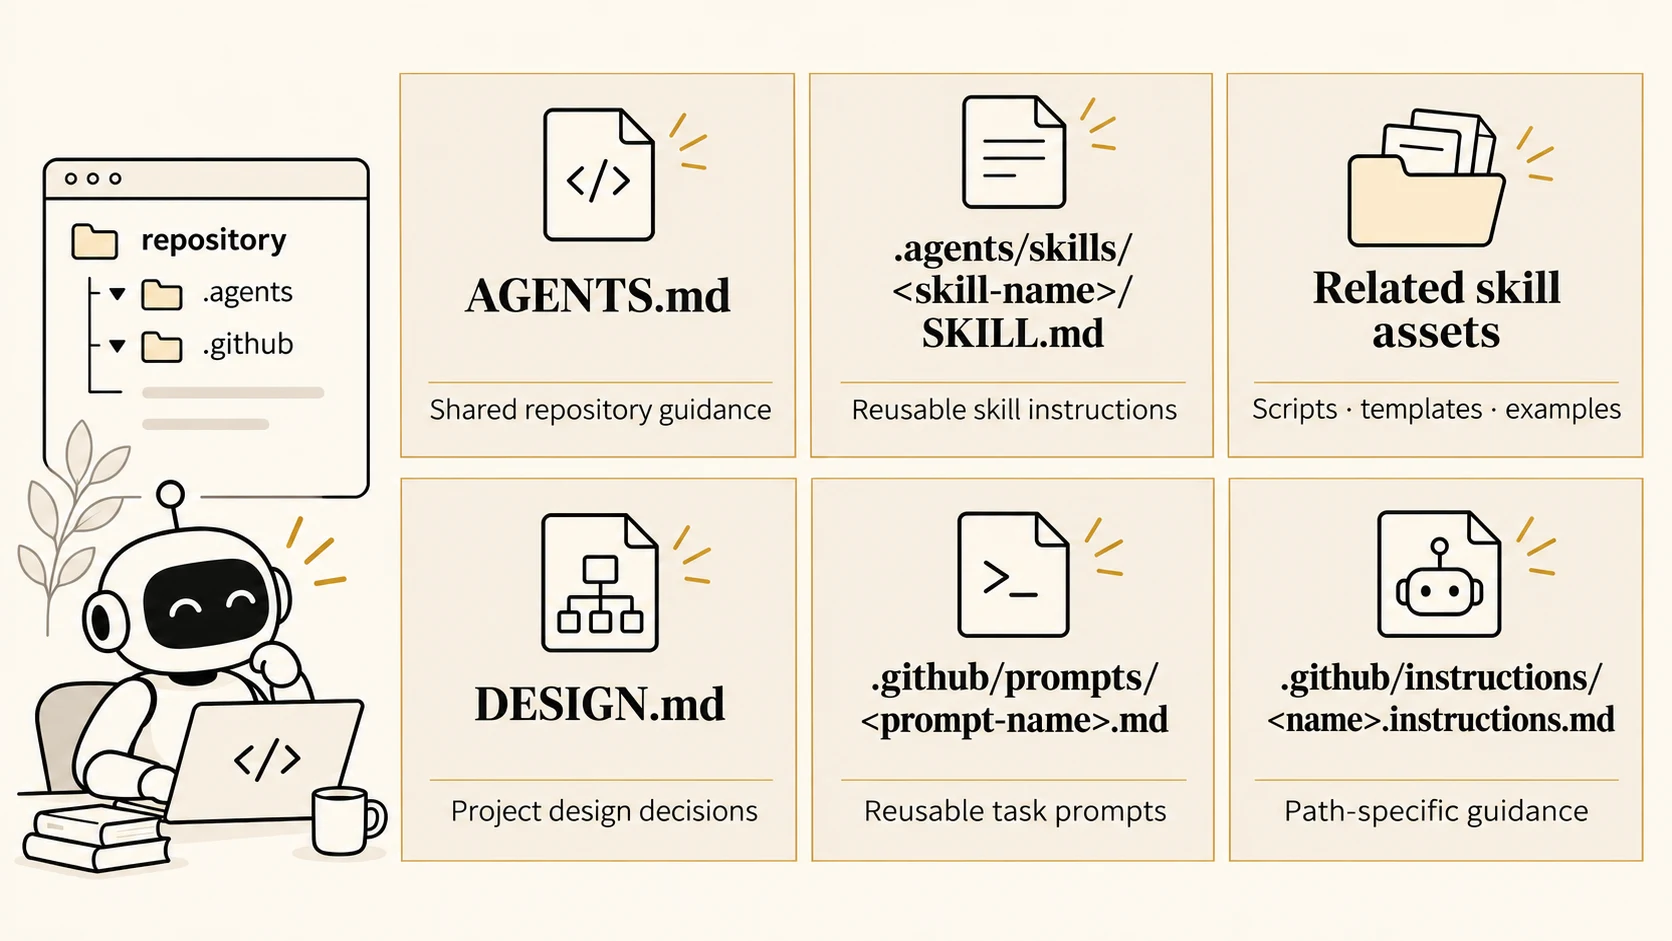
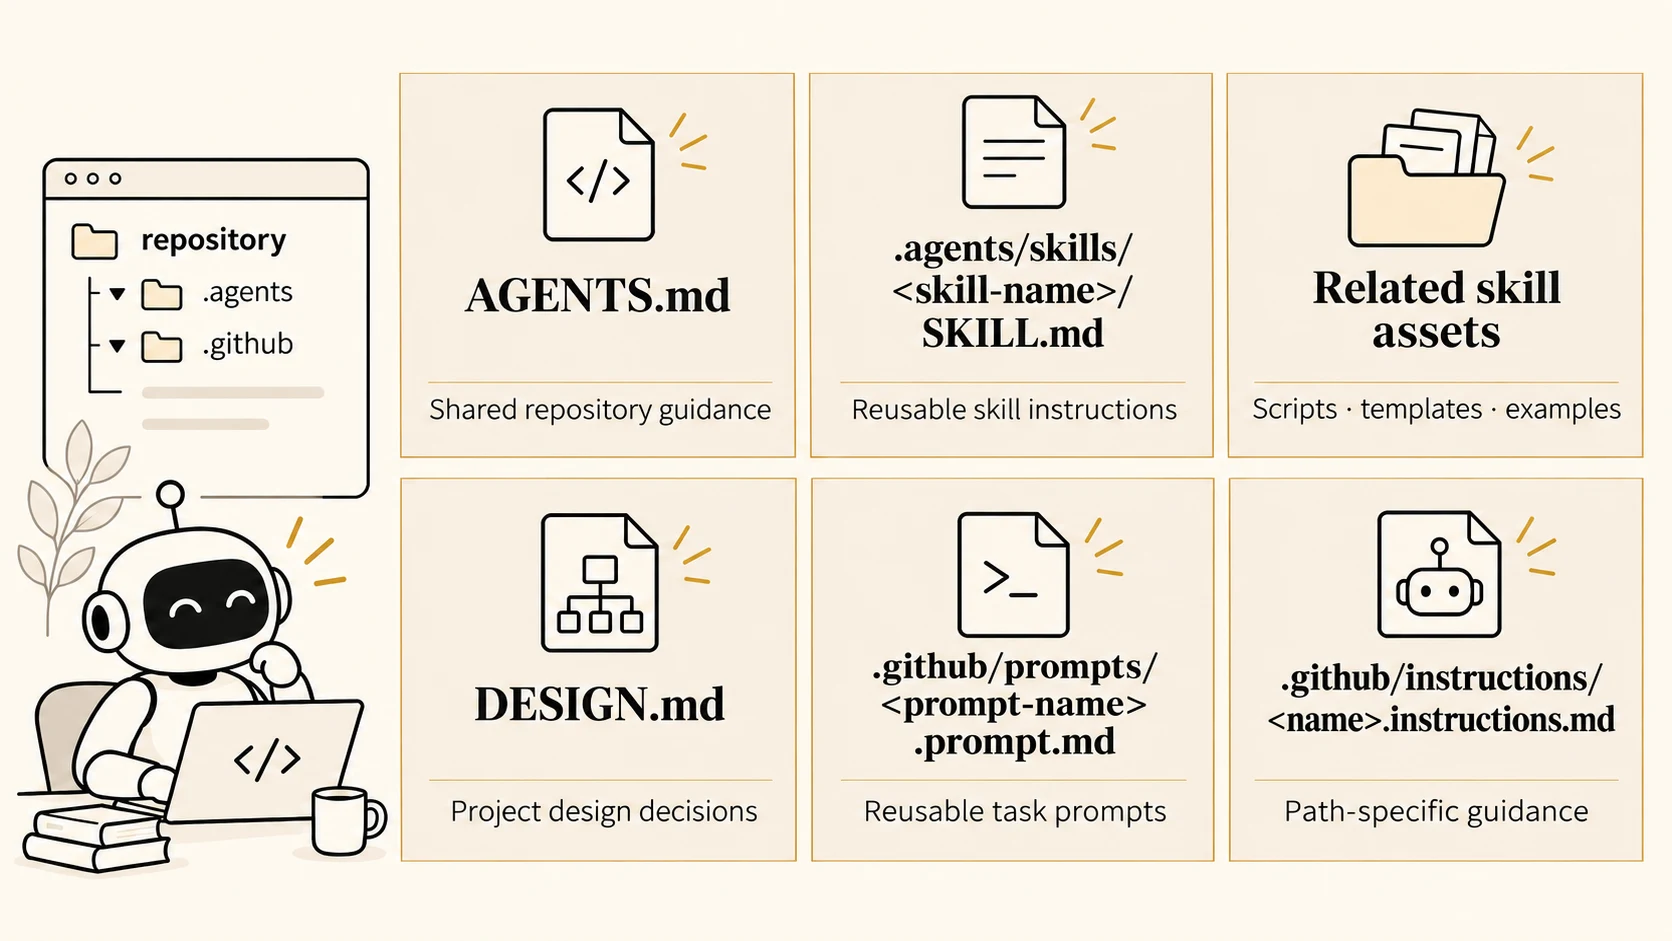
fix(slides): correct prompt path and add source links

diff --git a/media/README.md b/media/README.md
@@ -19,7 +19,7 @@ path-specific instructions. These are examples; conventions vary by tool and
 repository.
 
 ```text
-Create a 16:9 editorial glossary illustration for an engineering presentation. Show a friendly coding agent consulting a repository index beside six spacious cards. Label them exactly: "AGENTS.md" / "Shared repository guidance"; ".agents/skills/<skill-name>/SKILL.md" / "Reusable skill instructions"; "Related skill assets" / "Scripts · templates · examples"; "DESIGN.md" / "Project design decisions"; ".github/prompts/<prompt-name>.md" / "Reusable task prompts"; and ".github/instructions/<name>.instructions.md" / "Path-specific guidance". Use a bright ivory canvas, pale warm-stone square-corner cards, fine near-black pen-and-ink linework, restrained gold hairlines, readable dark text, and sparse shading. Match the deck's friendly editorial illustration style. Keep labels exact, complete, and legible. No overall title, unrelated project files, logos, or watermark.
+Create a 16:9 editorial glossary illustration for an engineering presentation. Show a friendly coding agent consulting a repository index beside six spacious cards. Label them exactly: "AGENTS.md" / "Shared repository guidance"; ".agents/skills/<skill-name>/SKILL.md" / "Reusable skill instructions"; "Related skill assets" / "Scripts · templates · examples"; "DESIGN.md" / "Project design decisions"; ".github/prompts/<prompt-name>.prompt.md" / "Reusable task prompts"; and ".github/instructions/<name>.instructions.md" / "Path-specific guidance". Use a bright ivory canvas, pale warm-stone square-corner cards, fine near-black pen-and-ink linework, restrained gold hairlines, readable dark text, and sparse shading. Match the deck's friendly editorial illustration style. Keep labels exact, complete, and legible. No overall title, unrelated project files, logos, or watermark.
 ```
 
 ## guardrails-workflow.webp
